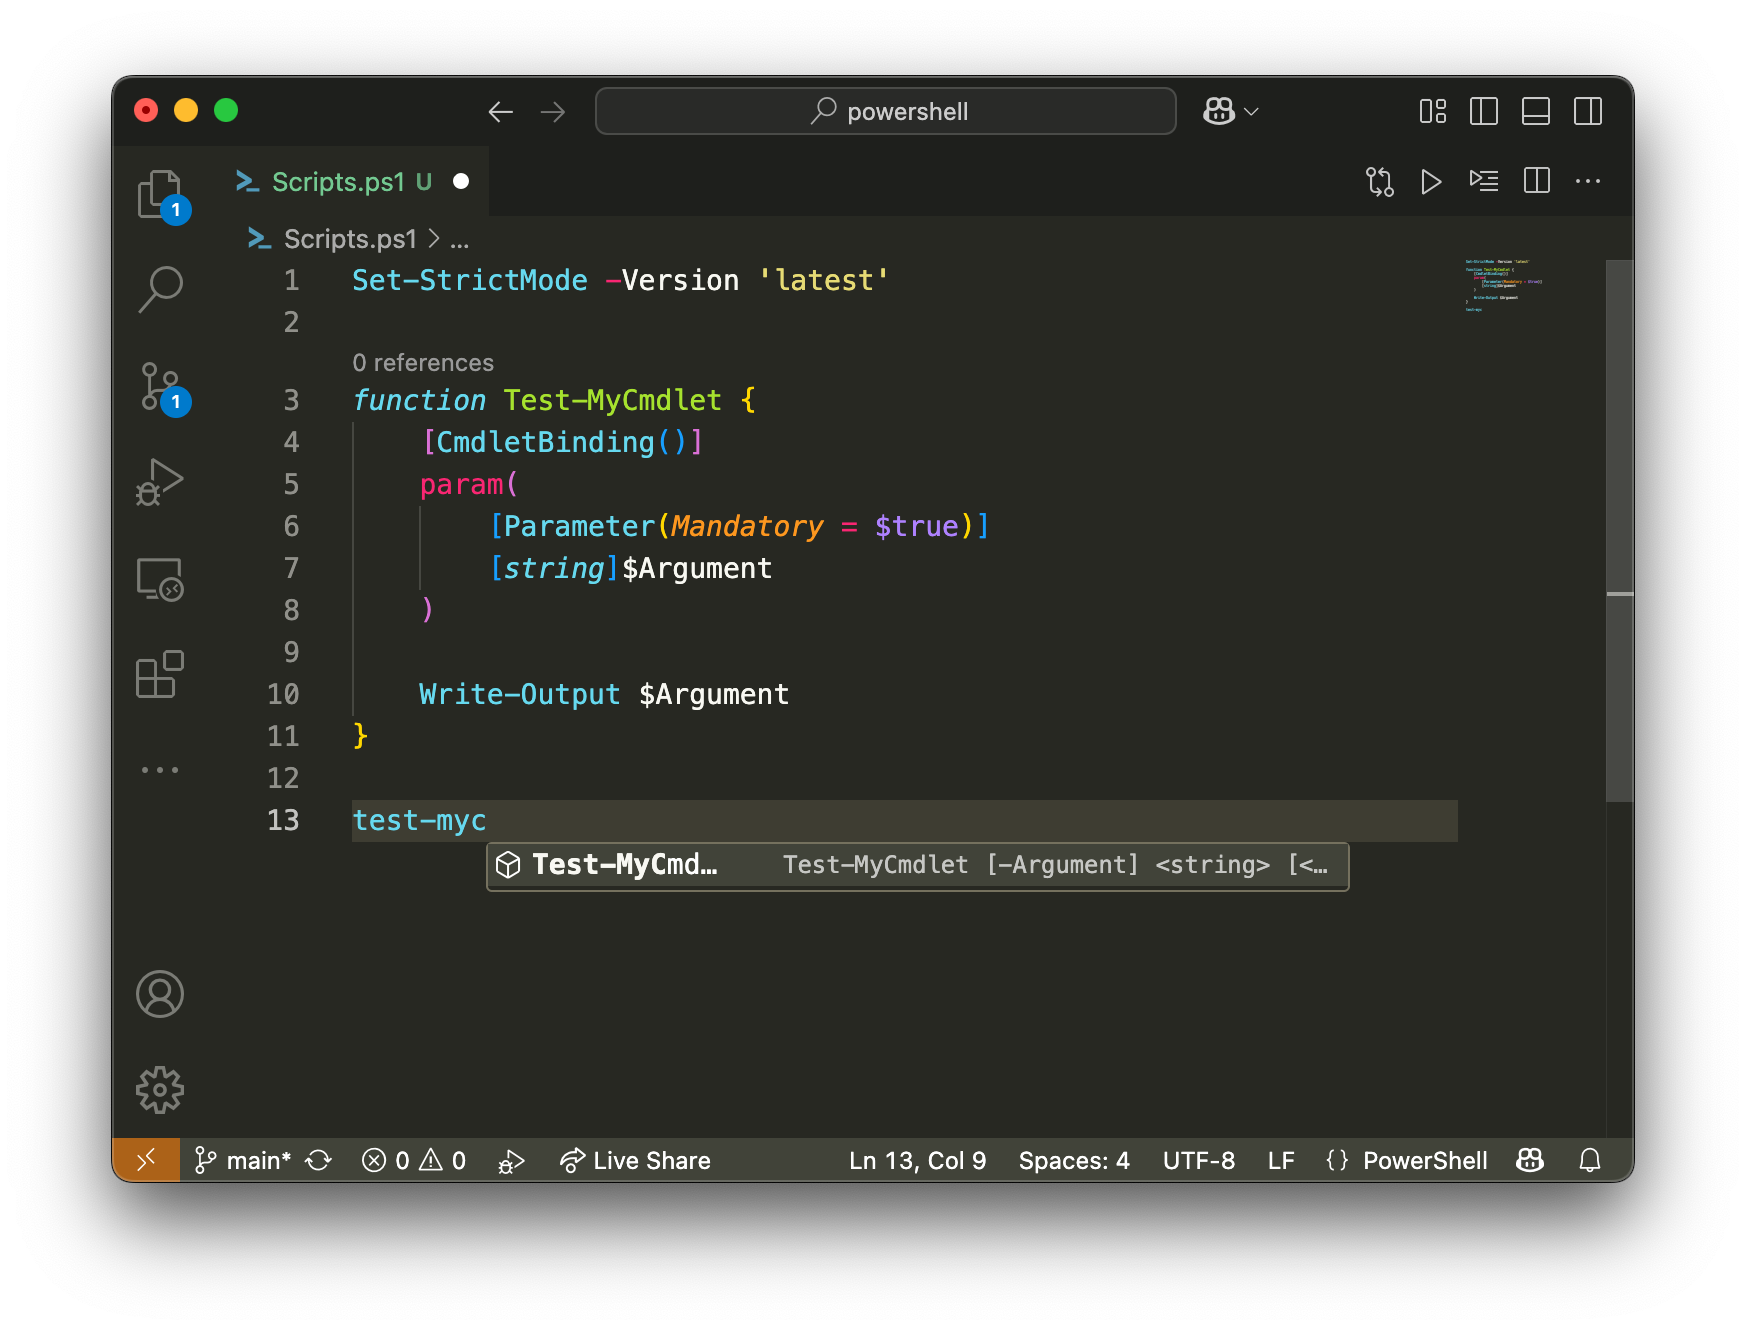
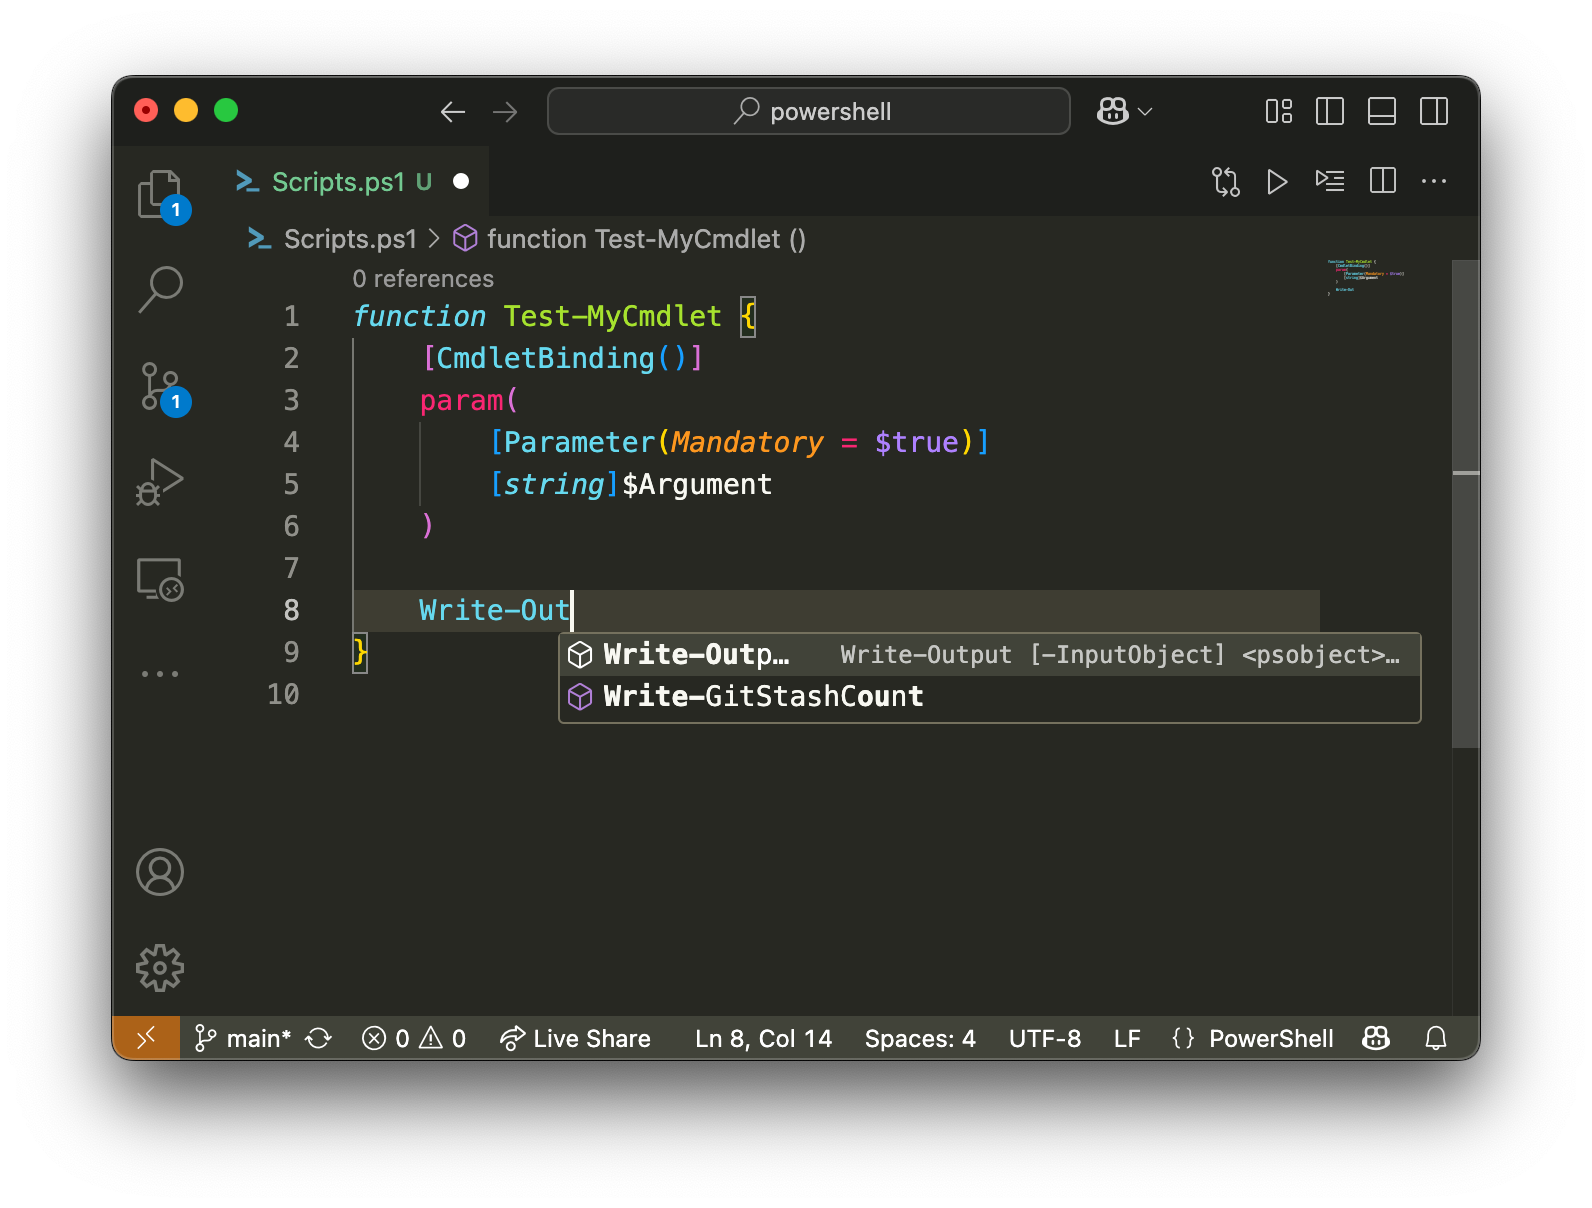
tweaks

Changed region(s): [[0.0616, 0.0306, 0.9541, 0.9189], [0.831, 0.1838, 0.8618, 0.245]]

diff --git a/_posts/2025-04-27-powershell.md b/_posts/2025-04-27-powershell.md
@@ -55,8 +55,17 @@ and hit run:
 vscode with the Powershell extension has decent autocomplete and linting. 
 
 ![](/assets/powershell/powershell-autocomplete.png)
+I haven't seen a bash/zsh script editor with this kind of autocomplete and I'm not sure how such a thing would work considering that those completions reflect the system they run on, not just the source code. For example:
+```bash
+systemctl is-active Netwo#TAB
+```
+might give
+```bash
+systemctl is-active NetworkManager.service
+```
+which would only make sense on systems where `NetworkManager` is installed. 
 
-The best bash alternative I've found is [shellcheck](https://www.shellcheck.net) for linting. I haven't found great editor support for bash/zsh script editing. 
+I will say [shellcheck](https://www.shellcheck.net) is quite good for linting. 
 
 ## A package manager
 
@@ -232,8 +241,16 @@ MetadataError: Cannot convert value "foo" to type "System.Int32". Error: "The in
 
 ## Things I don't miss
 
-* **The Powershell 5.1 and 7 distinction.** Windows ships with Powershell 5.1, but the latest features are in Powershell 7 (currently `7.5.1`). This means you either need to get everyone on your team to install 7 to share scripts, or you don't use the newer features in 7
-* **The rest of Windows.** NTFS permissions, path separators are backslashes, there are too many ways to do things (`batch`, `vbscript`, `Powershell`, control panel GUIs), Windows Docker containers don't work. I'd add "vendor lock-in" here but we were already stuck in the walled garden and Powershell happened to be in it. 
+**The Powershell 5.1 and 7 distinction.** Windows ships with Powershell 5.1, but the latest features are in Powershell 7 (currently `7.5.1`). This means you either need to get everyone on your team to install 7 to share scripts, or you don't use the newer features in 7. 
+
+**No universal 'fail fast' mode**. In bash, exit code 0 is success, anything else is fail. `set -e` tells your script to fail fast and exit when it sees a nonzero code which is great for cutting down on debugging time. Powershell sort of has this with 
+```powershell
+$ErrorActionPreference = 'Stop'
+```
+
+but it only works on programs that use Powershell's exception mechanisms, like `Write-Error` and not on programs that use exit codes. 
+
+**The rest of Windows.** NTFS permissions, path separators are backslashes, there are too many ways to do things (`batch`, `vbscript`, `Powershell`, control panel GUIs), Windows Docker containers don't work. I'd add "vendor lock-in" here but we were already stuck in the walled garden and Powershell happened to be in it. 
 
 ## Conclusion
 
